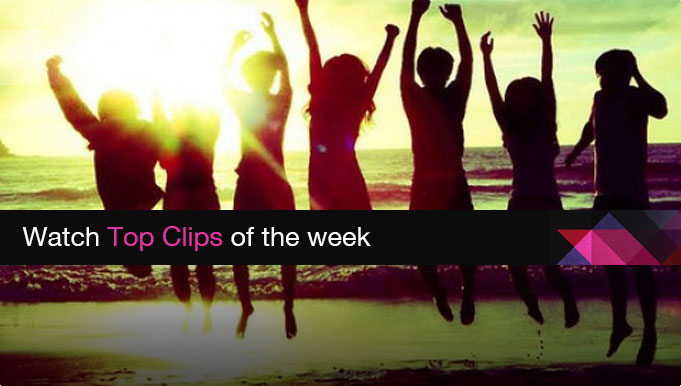
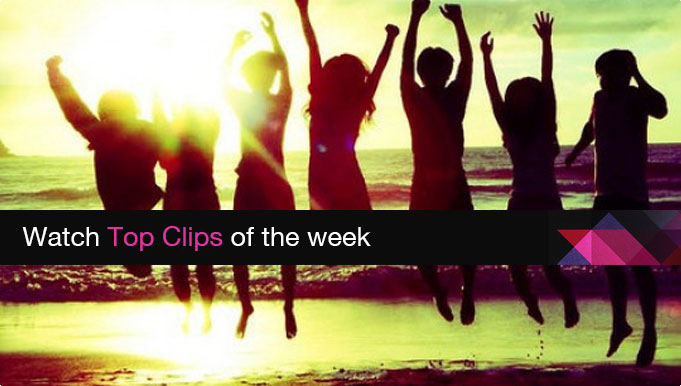
home page: top slider added

Changed region(s): [[0.0, 0.6839, 1.0, 1.0], [0.8326, 0.6839, 0.8634, 0.715]]

diff --git a/css/jquery.jcarousel.css b/css/jquery.jcarousel.css
@@ -97,4 +97,130 @@
     opacity: 0.07;
 }
 
+
+
 /* skin for top slider */
+
+.skin-top.jcarousel-container {
+    height: 386px;
+}
+
+
+.skin-top .jcarousel-container-horizontal {
+    width: 681px;
+    padding: 0px;
+}
+
+.skin-top .jcarousel-clip {
+    overflow: hidden;
+}
+
+.skin-top .jcarousel-clip-horizontal {
+    width:  681px;
+    height: 386px;
+}
+
+.skin-top .jcarousel-item {
+    display: block;
+    width: 681px;
+    height: 386px;
+}
+
+.skin-top .jcarousel-item-horizontal {
+    margin-left: 0;
+    margin-right: 0px;
+}
+
+.skin-top .jcarousel-item-placeholder {
+    background: #fff;
+    color: #000;
+}
+
+.skin-top .grad {
+    position: absolute;
+    top:0;
+    left: 0;
+    width:  681px;
+    height: 386px;    
+    background: url("../img/x.png") repeat-x 0px -611px transparent;
+    z-index: 2;
+}
+
+/* arrows */
+
+.skin-top .jcarousel-next-horizontal,
+.skin-top .jcarousel-prev-horizontal {
+    background: url("../img/sprite.png") no-repeat 100px 100px transparent;
+    display: inline-block;
+    width: 41px;
+    height: 42px;
+    position: absolute;
+    bottom: 16px;
+    z-index: 4;
+}
+
+.skin-top .jcarousel-next-horizontal {
+    right: 12px;
+    cursor: pointer;
+    background-position: -340px 0px;   
+}
+    
+.skin-top .jcarousel-prev-horizontal {
+    right: 58px;
+    cursor: pointer;
+    background-position: -298px 0px;
+}
+
+.skin-top .jcarousel-next-horizontal:hover {
+    background-position: -424px 0;    
+}
+.skin-top .jcarousel-prev-horizontal:hover {
+    background-position: -382px 0;
+}
+
+.skin-top .jcarousel-prev-disabled-horizontal,
+.skin-top .jcarousel-prev-disabled-horizontal:hover,
+.skin-top .jcarousel-prev-disabled-horizontal:focus,
+.skin-top .jcarousel-prev-disabled-horizontal:active {
+    cursor: default;
+    opacity: 0.3;
+    background-position: -298px 0px;
+}
+
+
+.skin-top .jcarousel-next-disabled-horizontal,
+.skin-top .jcarousel-next-disabled-horizontal:hover,
+.skin-top .jcarousel-next-disabled-horizontal:focus,
+.skin-top .jcarousel-next-disabled-horizontal:active  {
+    cursor: default;
+    opacity: 0.3;    
+    background-position: -340px 0px;
+}
+
+/**
+ * Additional styles for the controls.
+ */
+.jcarousel-control {
+    position: absolute;
+    bottom: 23px;
+    right: 112px;
+    z-index: 3;
+    text-align: right;
+    cursor: default;
+}
+
+.jcarousel-control a {
+    background: url("../img/sprite.png") no-repeat -209px -16px transparent;
+    display: inline-block;
+    width: 16px;
+    height: 16px;
+    outline: 0;
+    margin-left: -2px;
+}
+.jcarousel-control a:hover {
+    background-position: -209px 0px;    
+}
+.jcarousel-control a.active {
+    cursor: default;
+    background-position: -209px -31px;
+}

diff --git a/js/js.js b/js/js.js
@@ -1,4 +1,19 @@
 
+function topcarousel_initCallback(carousel) {
+    $('.jcarousel-control a').bind('click', function() {
+    	$('.jcarousel-control a').removeClass('active');
+    	$(this).addClass('active');
+        carousel.scroll(jQuery.jcarousel.intval(jQuery(this).attr('rel')));
+        return false;
+    });
+};
+
+function topcarousel_trigger(carousel, state) {
+	var num = carousel.first;
+	$('.jcarousel-control a').removeClass('active');
+	$('.jcarousel-control a').eq(num-1).addClass('active');
+}
+
 
 $(document).ready( function(){
 
@@ -48,12 +63,18 @@ $(document).ready( function(){
 	    }
 	});
 	
-
 	$('#simple-carousel').jcarousel({
         scroll: 3,
         animation: "150",
         buttonNextHTML: "<div class='arr next'><i></i></div>",
         buttonPrevHTML: "<div class='arr prev'><i></i></div>"
+    });
+
+    $('#top-carousel').jcarousel({
+        scroll: 1,
+        animation: "150",
+        initCallback: topcarousel_initCallback,
+        itemLoadCallback: topcarousel_trigger
     });
 
     $('.fancybox').fancybox({

diff --git a/home.html b/home.html
@@ -261,8 +261,22 @@
 	</div> <!-- .nav -->
 
 	<div class="home-top sh-box winWidth clearChlds gradient">
-		<div class="slider sl-top">
-			<img src="img/content/slide-1.jpg" alt="">
+		<div class="slider sl-top skin-top" id="top-carousel">
+			<div class="grad"></div>
+			<ul>
+				<li><img src="img/content/slide-1.jpg" alt=""></li>
+				<li><img src="img/content/slide-2.jpg" alt=""></li>
+				<li><img src="img/content/slide-3.jpg" alt=""></li>
+				<li><img src="img/content/slide-1.jpg" alt=""></li>
+				<li><img src="img/content/slide-2.jpg" alt=""></li>
+			</ul>	
+			<div class="jcarousel-control">
+		    	<a href="#" rel="1" class="active"></a>
+		     	<a href="#" rel="2"></a>
+		     	<a href="#" rel="3"></a>
+		     	<a href="#" rel="4"></a>
+		     	<a href="#" rel="5"></a>
+		    </div>		
 		</div>
 		<div class="events">
 			<div class="title">
